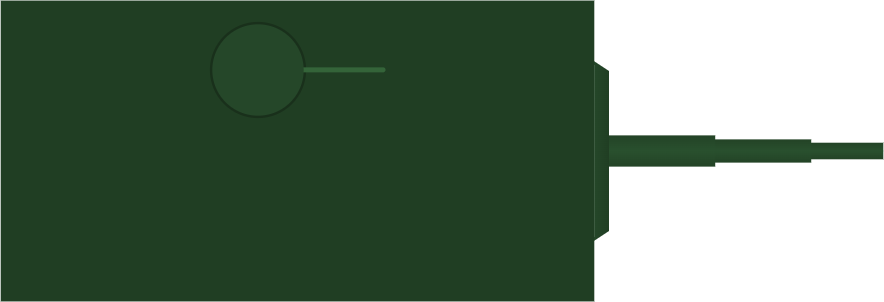
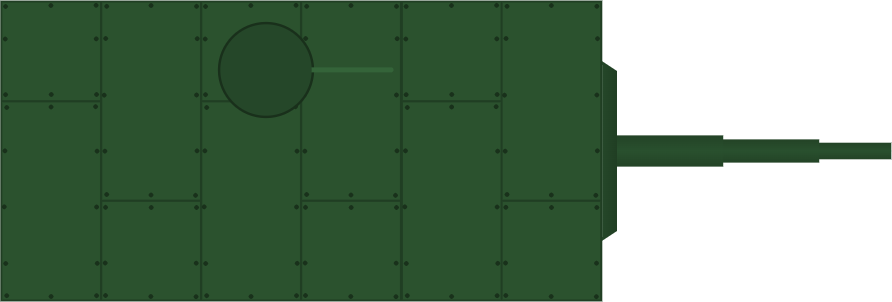
Обновить текстуру Проекта Менделеева

diff --git a/tankswars/README.md b/tankswars/README.md
@@ -1,5 +1,14 @@
 # Tanks Wars
 
+## Изменения `1.1.1.2v87`
+
+- Пользователь обновил текстуру `Проект Менделеева`: добавлены видимые броневые плиты, стыки и крепёж, поэтому корпус теперь читается как собранная конструкция, а не как однотонная заглушка.
+- Обновлены оба связанных изображения танка и корпуса.
+
+Затронутые файлы: `README.md`, `img/korpus/Проект Менделеева.png`, `img/tanki/Проект Менделеева.png`.
+
+Проверки: изображения проверены визуально; `git diff --check` выполнен успешно. Изменения ассетов внесены пользователем.
+
 ## Изменения `1.1.1.2v86`
 
 - Зафиксированы обнаруженные новые изображения `Проект Менделеева` для корпуса и карточки танка; происхождение файлов неизвестно.
